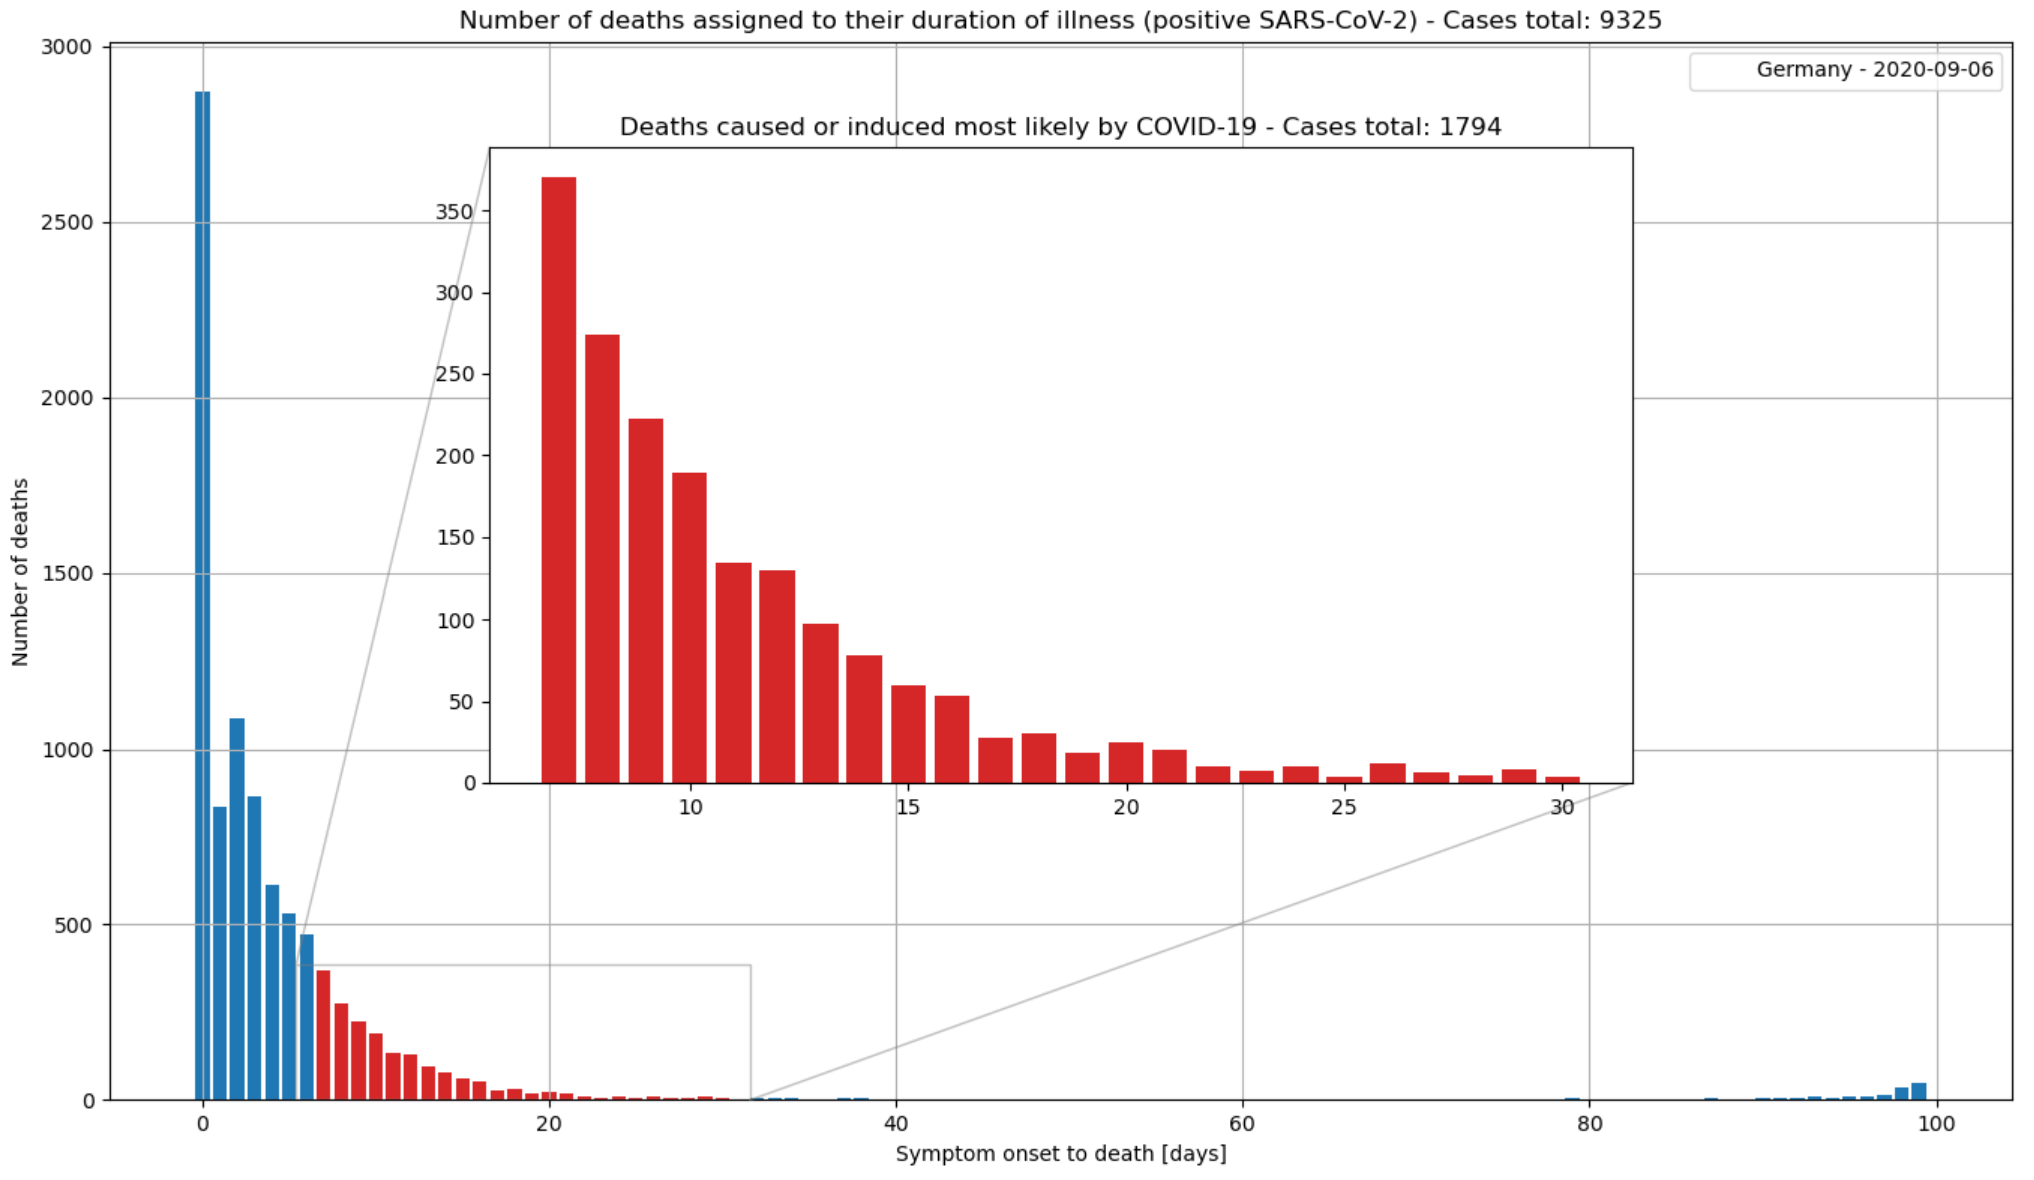
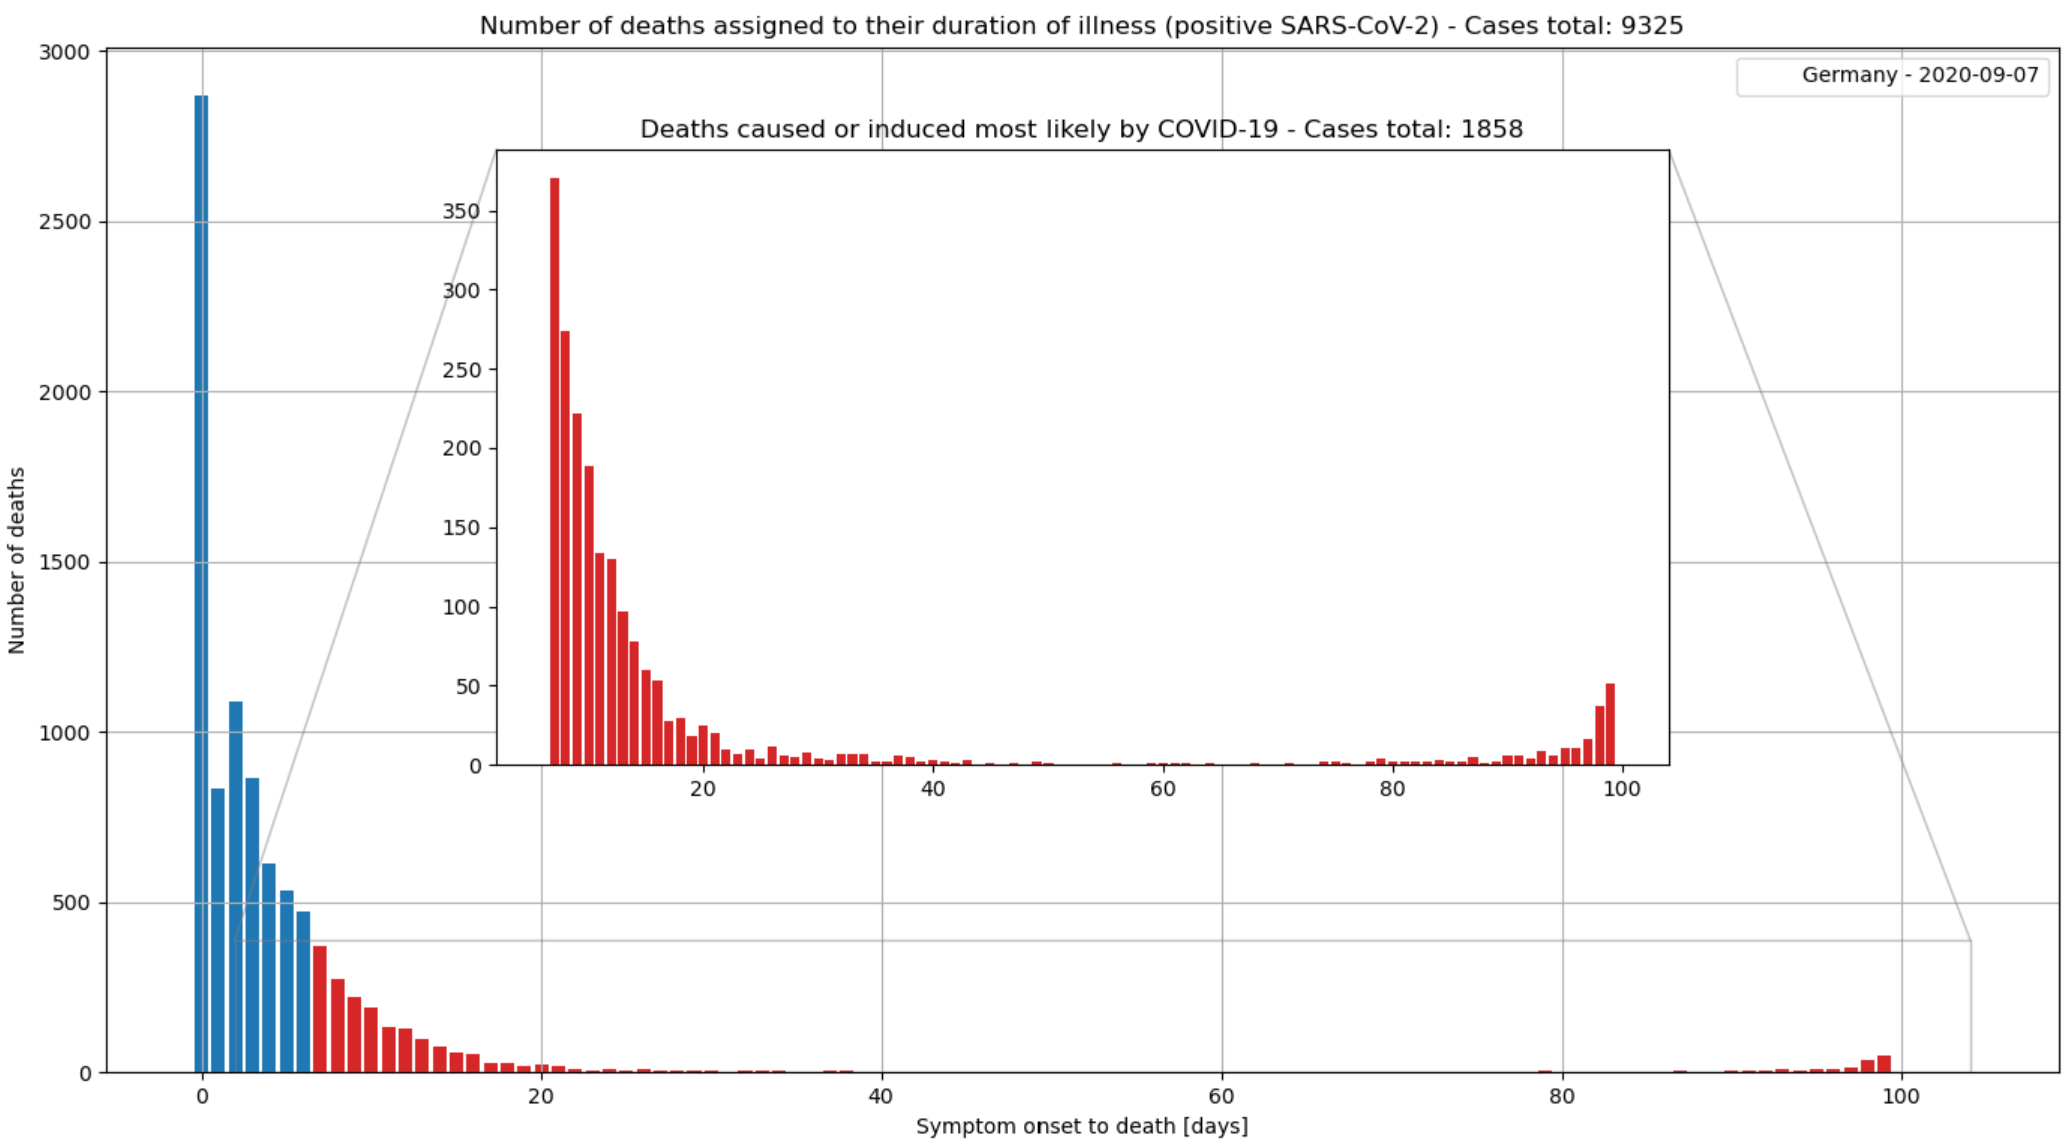
Add some references for new article

diff --git a/2020/covid-19-deaths-germany/index.html b/2020/covid-19-deaths-germany/index.html
@@ -70,33 +70,79 @@
 
   <h2>Gegenüberstellung der Erkrankungsdauer und den daraus resultierten Todesfällen</h2>
   <p>
-    - RKIs SARS-CoV-2 Steckbrief <dt-cite key="Wallinga2004"></dt-cite>.
-    - Statistik zum mittleren Krankheitsverlauf
-    - Datenquelle für Todesfälle mit Erkrankungsbeginn RKI (csv) <dt-cite key="Wallinga2004"></dt-cite>.
+    Jeder Todesfall ist tragisch und bedauerlich. Jede noch so alte Person, welche durch COVID-19 vorzeitig gestorben
+    ist, hatte möglicherweise noch eine Lebenserwartung von mehreren Jahren.
+    <br />
+
+    Die Gegenüberstellung zur üblichen Zählart der Todesursache wäre nötig, um die Auswertung über diese Analyse genauer
+    zu gestalten.
+    Wenn multimorbidität und obduktionsergebnisse mit eine Rolle spielen, wäre die Auswertung der Krankenakten aller
+    offiziell gezählten Todesfälle mit Ursache COVID-19 genauer zu betrachten.
+    Schweren Pneumonien mit Lungenversagen sind Krankheitsverläufe von COVID-19 die zum Tod führen <dt-cite
+      key="RKI2020"></dt-cite>. Todesfälle ohne schwere Symptome sind eher selten <dt-cite key="Guan2020"></dt-cite>.
+    <br />
+
+    Im SARS-CoV-2 Steckbrief des Robert Koch-Institut zur Coronavirus-Krankheit-2019 werden die mittleren Zeitintervalle
+    des Krankheitsverlauf von COVID-19 und Behandlung aufgezeigt.
+    <dt-cite key="RKI2020"></dt-cite>.
+  </p>
+
+  <figure style="position:relative;height:370px;">
+
+    <a href="https://www.rki.de/DE/Content/InfAZ/N/Neuartiges_Coronavirus/Steckbrief.html#doc13776792bodyText11"
+      target="_blank">
+      <img src="Abbildung1_Erregersteckbrief.png">
+    </a>
+    <figcaption style="position:absolute; text-align:left; width:650px; font-family:'Open Sans'">
+      Mediane Zeiträume bis zu verschiedenen Endpunkten sowie stationäre Aufenthaltsdauern (orientierende Angaben,
+      basierend auf der aktuellen Studienlage) - Quelle:
+      <a href="https://www.rki.de/DE/Content/InfAZ/N/Neuartiges_Coronavirus/Steckbrief.html#doc13776792bodyText11"
+        target="_blank">Robert Koch-Institut</a>
+    </figcaption>
+  </figure>
+  <p>
+    - Statistik zum mittleren Krankheitsverlauf in Worten
+
+    Es ist zu anzunehmen dass Todesfälle erst nach Tagen des Krankheitsbeginn eintreten kann, da eine ausreichende
+    Ausbreitung des Virus und die damit einhergehenden Beeinträchtigungen auf den Körper zuvor nicht möglich ist.
+    Die Methode welche angewendet wird, um Todesfälle mit der Ursache COVID-19 zu deklarieren muss daher betrachtet
+    werden. <dt-cite key="RKI2020FAQ"></dt-cite>
+
+    - Datenquelle für Todesfälle mit Erkrankungsbeginn RKI (csv) <dt-cite key="RKI2020Data"></dt-cite>.
     - Der Erkrankungsbeginn für SARS-CoV-2 Fälle wird mit aufgeführt.
   </p>
 
-  <figure style="position:relative; width:920px;height:620px;" id="epidemic_fig">
+  <figure style="position:relative; width:920px;height:580px;">
 
     <img id="chart" src="symptom-onset-to-death.png">
     <figcaption style="position:absolute; text-align:left; left:135px; width:650px; font-family:'Open Sans'">
+      Gegenüberstellung der Erkrankungsdauer (in Tagen) bis zum eintreten des Todes aller positiv getesteten
+      SARS-CoV-2 Fälle in Deutschland.
       Todesfälle <svg id="symptoms-indicator"
         style="position:relative; top:2px; width:3px; height:14px; background:#1F77B4"></svg> deren Ursache
       wahrscheinlich nicht der Infektion mit SARS-CoV-2 zugeschrieben werden kann.
       Todesfälle <svg id="symptoms-indicator"
         style="position:relative; top:2px; width:3px; height:14px; background:#D62728"></svg> die
-      wahrscheinlich durch SARS-CoV-2 verursacht oder induziert wurden. Stand 20.09.2020
+      wahrscheinlich durch SARS-CoV-2 verursacht oder induziert wurden. Stand 06.09.2020
     </figcaption>
   </figure>
 
   <p>
-    - über 2800 Todesfälle die ohne Symptome gestorben sind, nur mit einem positiven SARS-CoV-2 Test.
+    - über 2800 Todesfälle die ohne Symptome oder Krankheitsverlauf gestorben sind, nur mit einem positiven SARS-CoV-2
+    Test.
     - die ersten sieben Tagen
-    - 1794 von 9325 sind weniger als 20% der offiziell gezählten Todesfälle
-    - Was ist mit Fällen die eine Erkrankungsdauer von mehr als 30 Tagen aufweisen?
+    - 1858 von 9325 sind ungefähr 20% der offiziell gezählten Todesfälle
+    <br />
+    Krankenhausaufenthalte mit Todesfolge mit einer Dauer von mehr als 80 Tagen sind äußerst selten <dt-cite
+      key="Karagiannidis2020">
+    </dt-cite>.
+    Die gehäufte Anzahl an Todesfällen über 90 Tage nach Krankheitsbeginn sind vermutlich im Anschluss an den
+    jeweiligen Krankenhausaufenthalt aufgetreten. Diese Todesfälle sind wahrscheinlich durch COVID-19 induziert,
+    auch wenn COVID-19 kuriert wurde.
   </p>
   <p>
     - Konklusion?
+    Warum ist diese Betrachtungsweise valide?
   </p>
 </dt-article>
 
@@ -122,20 +168,62 @@
     <a href="https://github.com/distillpub/post--momentum/issues/51">Discussion with User derifatives</a>
   </p>-->
 
+  <h3 id="updates-and-corrections">Aktualisierung und Korrekturen</h3>
+  <p>
+    Falls sie Fehler sehen oder Änderungen vorschlagen möchten, erstellen sie bitte einen <a
+      href="https://github.com/mshfd/mshfd.github.io/issues/new" target="_blank">Issue auf Github</a>.
+  </p>
+
+
 </dt-appendix>
 
 
 <script type="text/bibliography">
-@article{Wallinga2004,
-  title={Different epidemic curves for severe acute respiratory syndrome reveal similar impacts of control measures},
-  author={Jacco Wallinga, Peter Teunis},
-  journal={American journal of epidemiology},
-  volume={160},
-  number={6},
-  pages={509-16},
-  year={2004},
-  publisher={Oxford University Press},
-  url={https://www.ncbi.nlm.nih.gov/pmc/articles/PMC7110200/},
-  doi={10.1093/aje/kwh255}
+@article{RKI2020,
+  title={SARS-CoV-2 Steckbrief zur Coronavirus-Krankheit-2019 (COVID-19)},
+  author={Robert Koch-Institut},
+  year={2020-09-04},
+  publisher={Robert Koch-Institut},
+  url={https://www.rki.de/DE/Content/InfAZ/N/Neuartiges_Coronavirus/Steckbrief.html#doc13776792bodyText11}
+}
+@article{RKI2020FAQ,
+  title={Antworten auf häufig gestellte Fragen zum Coronavirus SARS-CoV-2 / Krankheit COVID-19},
+  author={Robert Koch-Institut},
+  year={2020-08-07},
+  publisher={Robert Koch-Institut},
+  url={https://www.rki.de/SharedDocs/FAQ/NCOV2019/gesamt.html}
+}
+@article{RKI2020Data,
+  title={CSV mit den aktuellen Covid-19 Infektionen pro Tag (Zeitreihe)},
+  author={Robert Koch-Institut},
+  year={2020-09-07},
+  publisher={Robert Koch-Institut},
+  url={https://www.arcgis.com/home/item.html?id=f10774f1c63e40168479a1feb6c7ca74}
+}
+@article{Karagiannidis2020,
+  doi = {10.1016/s2213-2600(20)30316-7},
+  url = {https://doi.org/10.1016/s2213-2600(20)30316-7},
+  year = {2020},
+  month = sep,
+  publisher = {Elsevier {BV}},
+  volume = {8},
+  number = {9},
+  pages = {853--862},
+  author = {Christian Karagiannidis and Carina Mostert and Corinna Hentschker and Thomas Voshaar and Jürgen Malzahn and Gerhard Schillinger and Jürgen Klauber and Uwe Janssens and Gernot Marx and Steffen Weber-Carstens and Stefan Kluge and Michael Pfeifer and Linus Grabenhenrich and Tobias Welte and Reinhard Busse},
+  title = {Case characteristics, resource use, and outcomes of 10'021 patients with COVID-19 admitted to 920 German hospitals: an observational study},
+  journal = {The Lancet Respiratory Medicine}
+}
+@article{Guan2020,
+  doi = {10.1056/nejmoa2002032},
+  url = {https://doi.org/10.1056/nejmoa2002032},
+  year = {2020},
+  month = apr,
+  publisher = {Massachusetts Medical Society},
+  volume = {382},
+  number = {18},
+  pages = {1708--1720},
+  author = {Wei-jie Guan and Zheng-yi Ni and Yu Hu and Wen-hua Liang and Chun-quan Ou and Jian-xing He and Lei Liu and Hong Shan and Chun-liang Lei and David S.C. Hui and Bin Du and Lan-juan Li and Guang Zeng and Kwok-Yung Yuen and Ru-chong Chen and Chun-li Tang and Tao Wang and Ping-yan Chen and Jie Xiang and Shi-yue Li and Jin-lin Wang and Zi-jing Liang and Yi-xiang Peng and Li Wei and Yong Liu and Ya-hua Hu and Peng Peng and Jian-ming Wang and Ji-yang Liu and Zhong Chen and Gang Li and Zhi-jian Zheng and Shao-qin Qiu and Jie Luo and Chang-jiang Ye and Shao-yong Zhu and Nan-shan Zhong},
+  title = {Clinical Characteristics of Coronavirus Disease 2019 in China},
+  journal = {New England Journal of Medicine}
 }
 </script>

diff --git a/index.html b/index.html
@@ -1156,7 +1156,7 @@ table {
 
     <div class="post-preview commentary">
       <div class="metadata">
-        <div class="publishedDate">Sept. XX, 2020</div>
+        <div class="publishedDate">Sept. 20, 2020</div>
         <div class="tags">
           <span class="tag commentary">Draft</span>
         </div>
